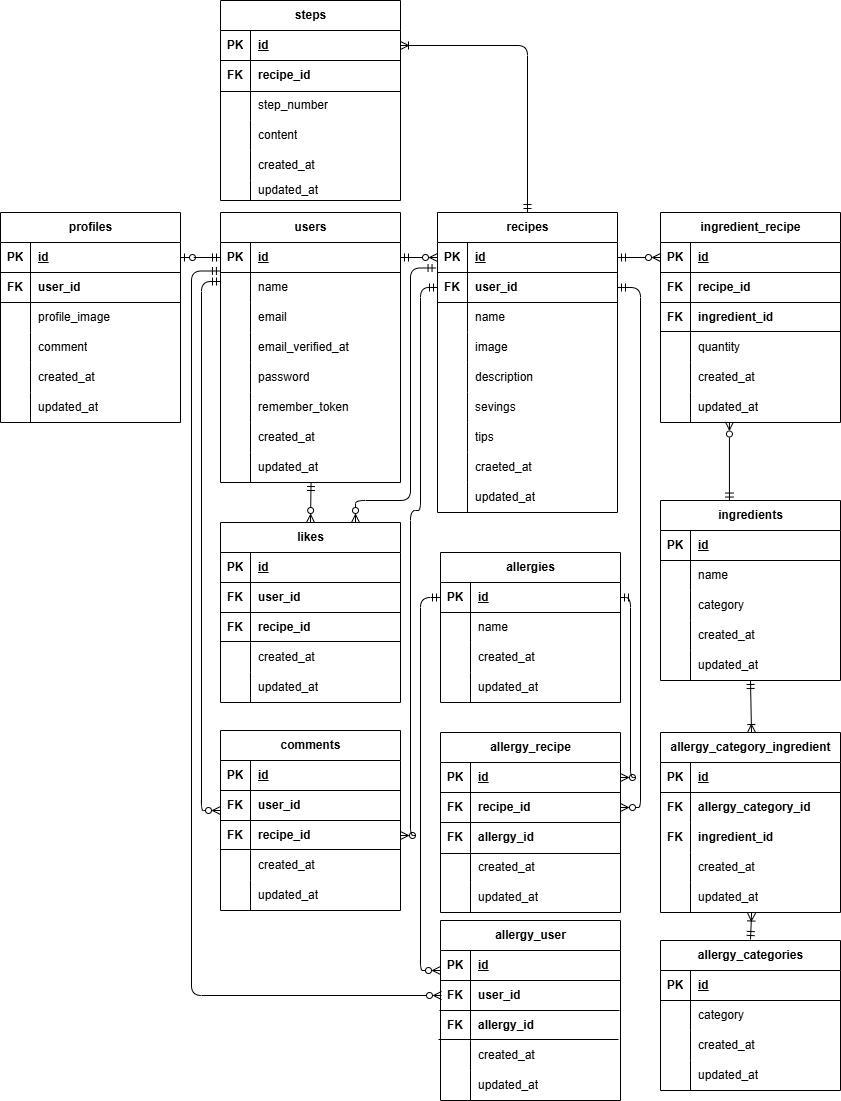
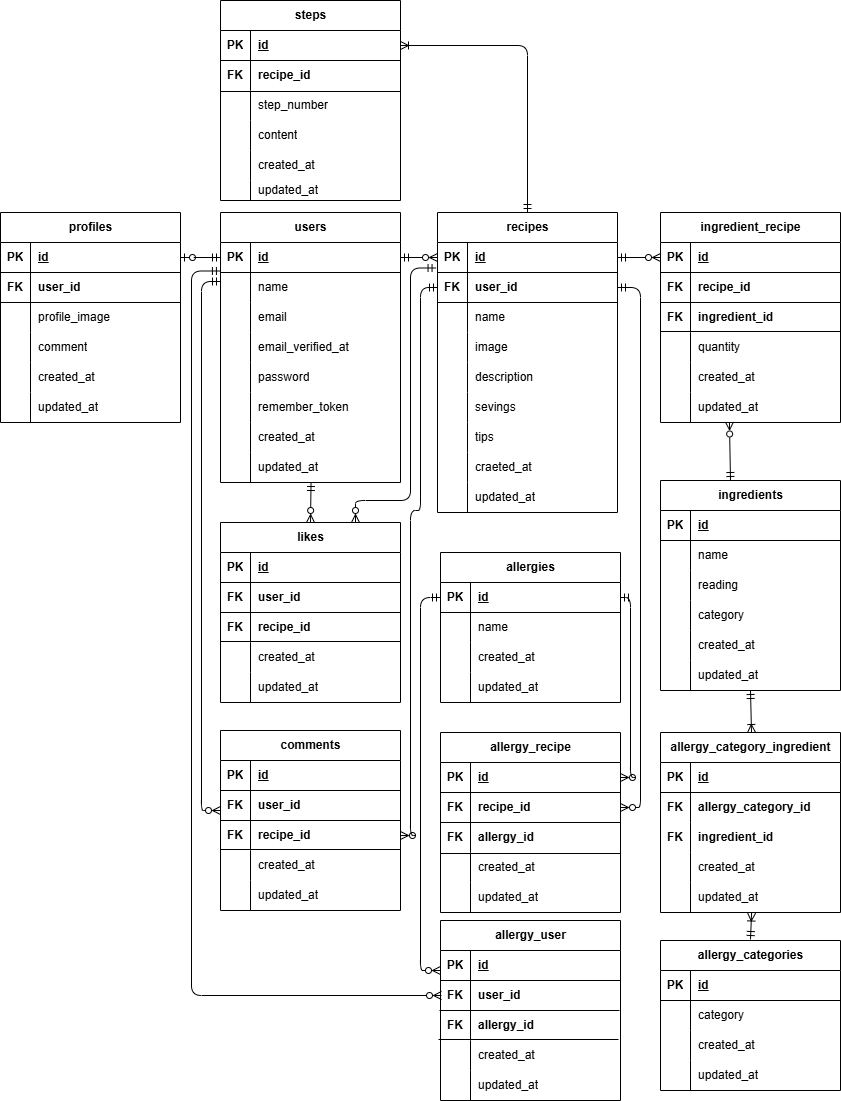
検索に除外食材を追加

Changed region(s): [[0.7729, 0.4323, 0.9584, 0.6485], [0.9893, 0.4323, 1.0, 0.4632]]

diff --git a/app/Http/Controllers/RecipeController.php b/app/Http/Controllers/RecipeController.php
@@ -18,8 +18,11 @@ class RecipeController extends Controller
     public function index(Request $request) {
         /** @var \App\Models\User $user */
         $user = auth()->user();
-        $tab = $request->get('tab', 'recommend');
-        $keyword = $request->get('keyword');
+        $tab = $request->input('tab', 'recommend');
+        $keyword = $request->input('keyword');
+        $excludeIngredients = $request->input('exclude_ingredients');
+        $excludeIngredientsDisplay = $excludeIngredients
+        ? preg_replace('/\s+/', '，', trim($excludeIngredients)) : null;
         $selectedAllergies = collect();
         $selectedCategories = collect();
         $allergies = Allergy::where('is_selectable', true)->get();
@@ -53,23 +56,26 @@ class RecipeController extends Controller
 
         if ($tab === 'mylist' && auth()->check()) {
             $recipes = $user->likedRecipes()
+                ->approved()
                 ->orderBy('likes.created_at', 'desc')
-                ->search($keyword, $excludeAllergies, $excludeCategories)
+                ->search($keyword, $excludeIngredients, $excludeAllergies, $excludeCategories)
                 ->paginate(12);
         } elseif ($tab === 'mylist') {
             $recipes = collect();
         } else {
             $recipes = Recipe::query()
+                ->approved()
                 ->latest()
-                ->search($keyword, $excludeAllergies, $excludeCategories)
+                ->search($keyword, $excludeIngredients, $excludeAllergies, $excludeCategories)
                 ->paginate(12);
         }
 
-        return view('recipes.index', compact('recipes','tab', 'keyword', 'message', 'selectedAllergies', 'selectedCategories', 'excludeAllergies', 'excludeCategories', 'allergies', 'allergyCategories'));
+        return view('recipes.index', compact('recipes','tab', 'keyword', 'excludeIngredientsDisplay', 'message', 'selectedAllergies', 'selectedCategories', 'excludeAllergies', 'excludeCategories', 'allergies', 'allergyCategories'));
     }
 
     public function show($recipe_id) {
-        $recipe = Recipe::with([
+        $recipe = Recipe::approved()
+        ->with([
             'user.profile',
             'allergies',
             'ingredients',
@@ -269,6 +275,6 @@ class RecipeController extends Controller
 
         return redirect()->route('profile', [
             'user_id' => Auth::user()->id,
-        ]);
+        ])->with('delete', 'レシピを削除しました');
     }
 }

diff --git a/app/Models/Recipe.php b/app/Models/Recipe.php
@@ -4,6 +4,8 @@ namespace App\Models;
 
 use Illuminate\Database\Eloquent\Factories\HasFactory;
 use Illuminate\Database\Eloquent\Model;
+use Illuminate\Support\Facades\Storage;
+use Override;
 
 class Recipe extends Model
 {
@@ -20,6 +22,16 @@ class Recipe extends Model
         'approval_at',
         'rejection_reason',
     ];
+
+    #[Override]
+    protected static function booted()
+    {
+        static::deleting(function (Recipe $recipe) {
+            if ($recipe->image && Storage::disk('public')->exists($recipe->image)) {
+                Storage::disk('public')->delete($recipe->image);
+            }
+        });
+    }
 
     public function user() {
         return $this->belongsTo(User::class);
@@ -48,7 +60,11 @@ class Recipe extends Model
     }
 
     public function comments() {
-        return $this->hasMany(Comment::class);
+        return $this->hasMany(Comment::class)->orderBy('created_at', 'desc');
+    }
+
+    public function scopeApproved($query) {
+        return $query->where('status', 1);
     }
 
     public function scopeKeywordSearch($query, $keyword) {
@@ -66,6 +82,22 @@ class Recipe extends Model
                 ->orWhereHas('ingredients', function ($q) use ($word) {
                     $q->where('ingredients.name', 'like', "%{$word}%");
                 });
+            });
+        }
+
+        return $query;
+    }
+
+    public function scopeExcludeIngredients($query, $excludeIngredients) {
+        if (empty($excludeIngredients)) {
+            return $query;
+        }
+
+        $words = preg_split('/\s+/', trim($excludeIngredients));
+
+        foreach ($words as $word) {
+            $query->whereDoesntHave('ingredients', function ($q) use ($word) {
+                $q->where('ingredients.name', 'like', "%{$word}%");
             });
         }
 
@@ -93,10 +125,11 @@ class Recipe extends Model
         return $query;
     }
 
-    public function scopeSearch($query, $keyword, $excludeAllergies, $excludeCategories)
+    public function scopeSearch($query, $keyword, $excludeIngredients, $excludeAllergies, $excludeCategories)
     {
         return $query
         ->keywordSearch($keyword)
+        ->excludeIngredients($excludeIngredients)
         ->excludeAllergies($excludeAllergies)
         ->excludeCategories($excludeCategories);
     }

diff --git a/app/Actions/Fortify/CreateNewUser.php b/app/Actions/Fortify/CreateNewUser.php
@@ -32,12 +32,18 @@ class CreateNewUser implements CreatesNewUsers
                 'max:255',
                 Rule::unique(User::class),
             ],
-            'password' => ['required', 'min:8', 'confirmed'],
+            'password' => ['required', 'string', 'min:8', 'confirmed'],
         ],[
             'name.required' => 'ユーザー名を入力してください',
+            'name.string' => 'ユーザー名は文字で入力してください',
+            'name.max' => 'ユーザー名は255文字以下で入力してください',
             'email.required' => 'メールアドレスを入力してください',
+            'email.string' => 'メールアドレスは文字で入力してください',
             'email.email' => 'メールアドレスはメール形式で入力してください',
+            'メールアドレスは255文字以下で入力してください',
+            'email.unique' => 'こちらのメールアドレスはすでに登録されています',
             'password.required' => 'パスワードを入力してください',
+            'password.string' => 'パスワードは文字列で入力してください',
             'password.min' => 'パスワードは8文字以上で入力してください',
             'password.confirmed' => 'パスワードと一致しません',
         ])->validate();

diff --git a/resources/views/recipes/show.blade.php b/resources/views/recipes/show.blade.php
@@ -9,7 +9,7 @@
     <div class="rounded-2xl bg-white md:mx-6 p-4 md:py-6 md:px-10 flex flex-col items-center">
         <div class="md:flex gap-10 w-full max-w-6xl">
             <div class="md:w-1/2">
-                <img class="w-full md:w-xl rounded-2xl object-cover" src="{{ asset('storage/'.$recipe->image) }}" alt="{{ $recipe->name }}">
+                <img class="w-full md:w-xl h-102 rounded-2xl object-cover" src="{{ asset('storage/'.$recipe->image) }}" alt="{{ $recipe->name }}">
             </div>
             <div class="md:flex-1 mx-2 px-4">
                 <h2 class="text-center text-2xl font-bold text-accent m-4">{{ $recipe->name }}</h2>
@@ -126,6 +126,7 @@
 </div>
 
 <script>
+    //現段階ではコメント数は少ないため、最初に全コメントを取得し、CSSで非表示にする方法を採用
     const showMoreBtn = document.getElementById('show-more-comments');
 
     if (showMoreBtn) {

diff --git a/resources/views/layouts/header_nav.blade.php b/resources/views/layouts/header_nav.blade.php
@@ -10,6 +10,10 @@
 
                     <div class="absolute left-0 top-full w-64 md:w-78 bg-white border border-gray-200 text-sm z-10" id="allergyDropdown" style="display: none;">
                         <div class="m-2">
+                            <label class="block text-left font-bold text-sm my-2" for="excludeIngredientInput">除外する食材</label>
+                            <input class="bg-white w-full border rounded-md p-2 text-sm" type="text" id="excludeIngredientInput" name="exclude_ingredients" value="{{ request('exclude_ingredients') }}" placeholder="例：卵, 牛乳" autocomplete="off">
+                        </div>
+                        <div class="m-2">
                             <p class="text-left my-2" id="selectedAllergy">
                                 除外アレルギー：{{ $selectedAllergies->implode(', ') ? : '未選択' }}
                             </p>

diff --git a/resources/views/recipes/create.blade.php b/resources/views/recipes/create.blade.php
@@ -12,7 +12,7 @@
             <form class="flex flex-col items-center gap-4 w-full md:w-3/4 mx-auto md:my-8 px-6" action="{{ route('recipe.store') }}" method="post" enctype="multipart/form-data" novalidate>
                 @csrf
                 <div class="flex flex-col items-center">
-                    <div class="border h-86 w-xl rounded-2xl @error('image') border-error @enderror overflow-hidden" id="list"></div>
+                    <div class="border h-102 w-xl rounded-2xl @error('image') border-error @enderror overflow-hidden" id="list"></div>
                     <label class="text-center bg-white hover:shadow-md border border-accent text-accent px-4 py-2 md:my-4 rounded-md font-semibold cursor-pointer" for="image">レシピ画像を選択する</label>
                     <input type="file" id="image" name="image" accept="image/png, image/jpeg" hidden>
                     @error('image')

diff --git a/resources/views/recipes/edit.blade.php b/resources/views/recipes/edit.blade.php
@@ -13,7 +13,7 @@
                 @csrf
                 @method('PUT')
                 <div class="flex flex-col items-center gap-4" id="list">
-                    <img class="w-full md:w-xl rounded-2xl object-cover" src="{{ asset('storage/'. $recipe->image) }}" alt="レシピ画像">
+                    <img class="w-full md:w-xl h-102 rounded-2xl object-cover" src="{{ asset('storage/'. $recipe->image) }}" alt="レシピ画像">
                     <label class="block text-center bg-white hover:shadow-md border border-accent text-accent px-4 py-2 md:my-4 rounded-md font-semibold cursor-pointer" for="image">レシピ画像を選択する</label>
                     <input type="file" id="image" name="image" accept="image/png, image/jpeg" hidden>
                     @error('image')

diff --git a/tests/Feature/UserRegistrationTest.php b/tests/Feature/UserRegistrationTest.php
@@ -1,0 +1,27 @@
+<?php
+
+namespace Tests\Feature;
+
+use Illuminate\Foundation\Testing\RefreshDatabase;
+use Tests\TestCase;
+
+class UserRegistrationTest extends TestCase
+{
+    use RefreshDatabase;
+
+    public function test_register_user_validate_name(): void
+    {
+        $response = $this->post('/register', [
+            'name' => "",
+            'email' => "test@example.com",
+            'password' => "password",
+            'password_confirmation' => "password",
+        ]);
+
+        $response->assertStatus(302);
+        $response->assertSessionHasErrors('name');
+
+        $errors = session('errors');
+        $this->assertEquals('ユーザー名を入力してください', $errors->first('name'));
+    }
+}

diff --git a/resources/views/recipes/index.blade.php b/resources/views/recipes/index.blade.php
@@ -9,6 +9,9 @@
     <div class="rounded-2xl bg-white md:mx-6 px-4 py-6 md:px-6 md:py-10">
         <div>
             <h2 class="text-2xl font-bold text-accent">{{ $message }}</h2>
+            @if ($excludeIngredientsDisplay)
+            <p class="text-secondary">除外食材：<span>{{ $excludeIngredientsDisplay }}</span></p>
+            @endif
             @if ($selectedAllergies->count())
             <p class="text-secondary">除外アレルギー：<span class="font-bold text-secondary">{{ $selectedAllergies->implode('，') }}</span></p>
             @endif

diff --git a/resources/views/profiles/show.blade.php b/resources/views/profiles/show.blade.php
@@ -7,6 +7,11 @@
 @section('content')
 <div class="bg-primary min-h-screen md:pb-6">
     <div class="rounded-2xl bg-white md:mx-6 px-4 py-6 md:py-6 md:px-10">
+        @if (session('delete'))
+        <div class="font-bold text-accent">
+            {{ session('delete') }}
+        </div>
+        @endif
         <div>
             <div class="flex gap-6 justify-center items-center">
                 @if($user->profile?->profile_image)

diff --git a/app/Http/Controllers/ProfileController.php b/app/Http/Controllers/ProfileController.php
@@ -17,6 +17,7 @@ class ProfileController extends Controller
         ->findOrFail($user_id);
 
         $recipes = $user->recipes()
+        ->approved()
         ->latest()
         ->paginate(12);
 
